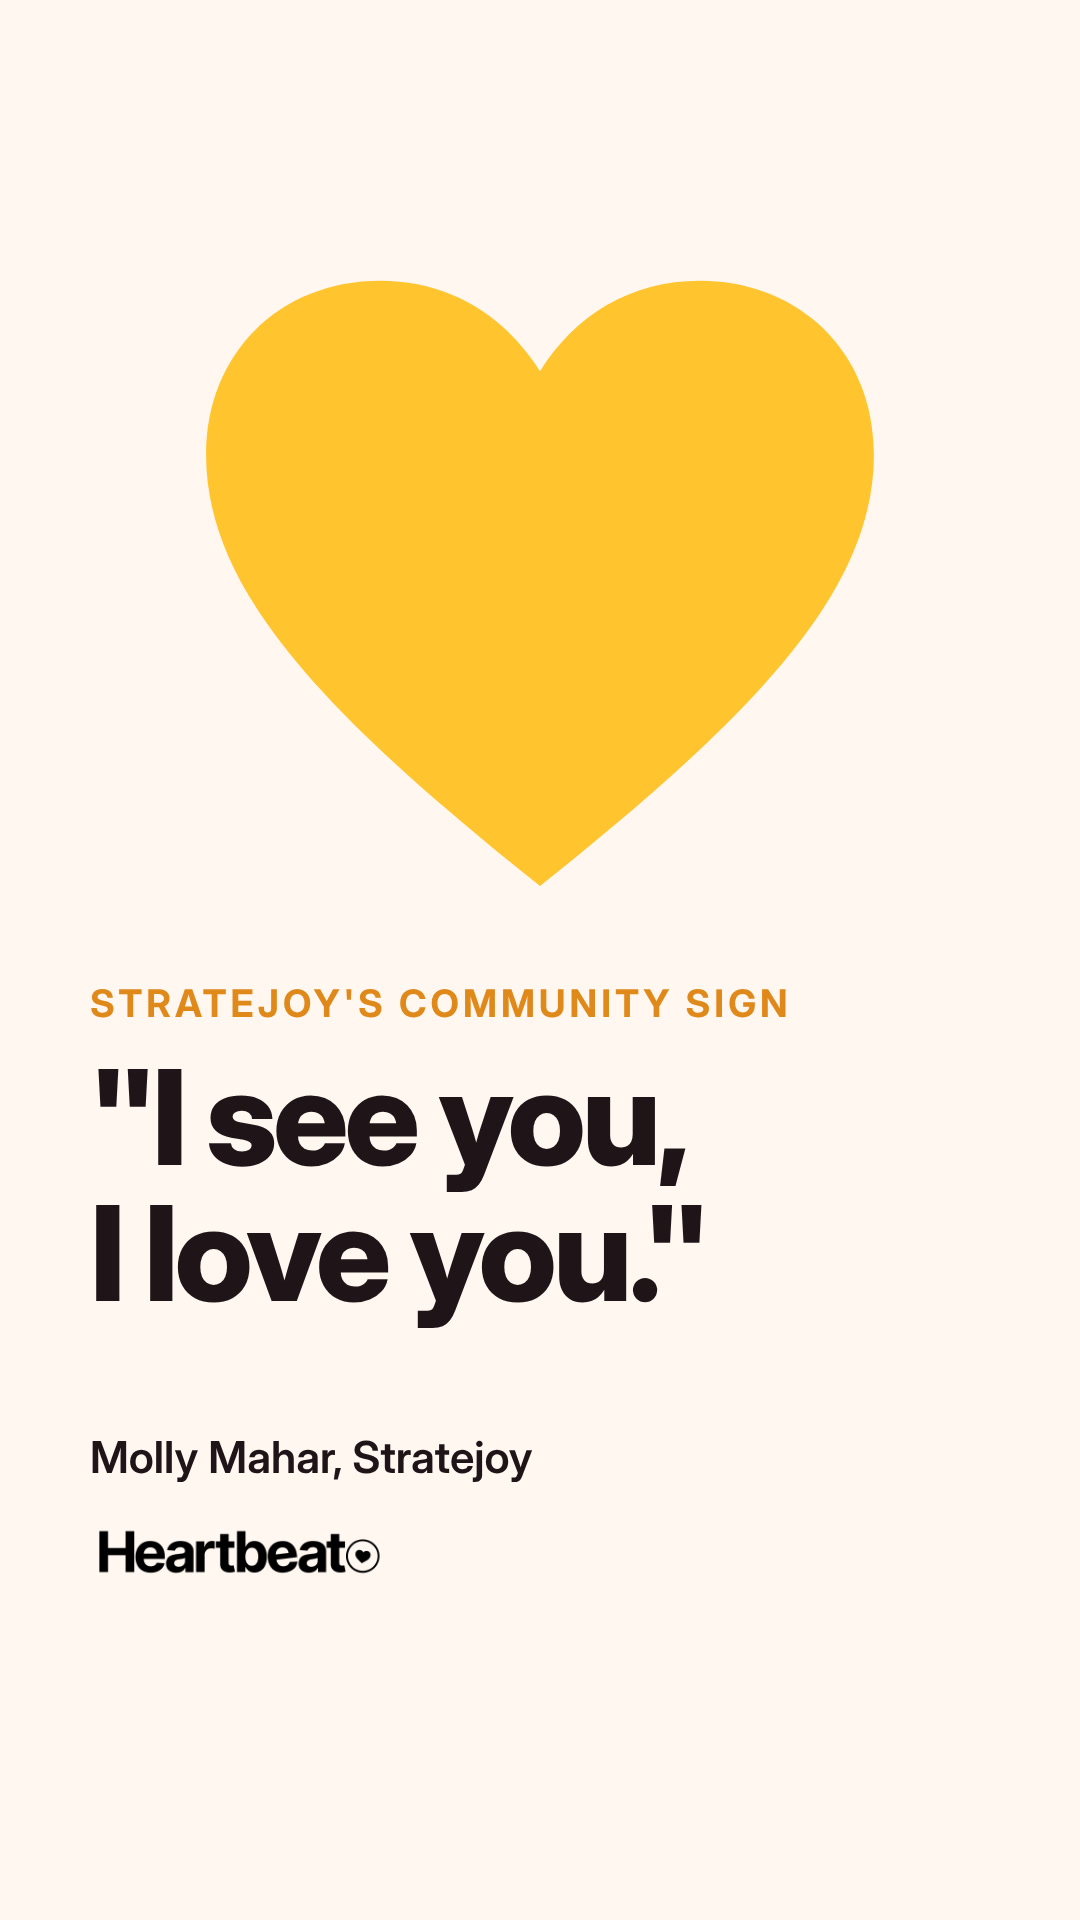
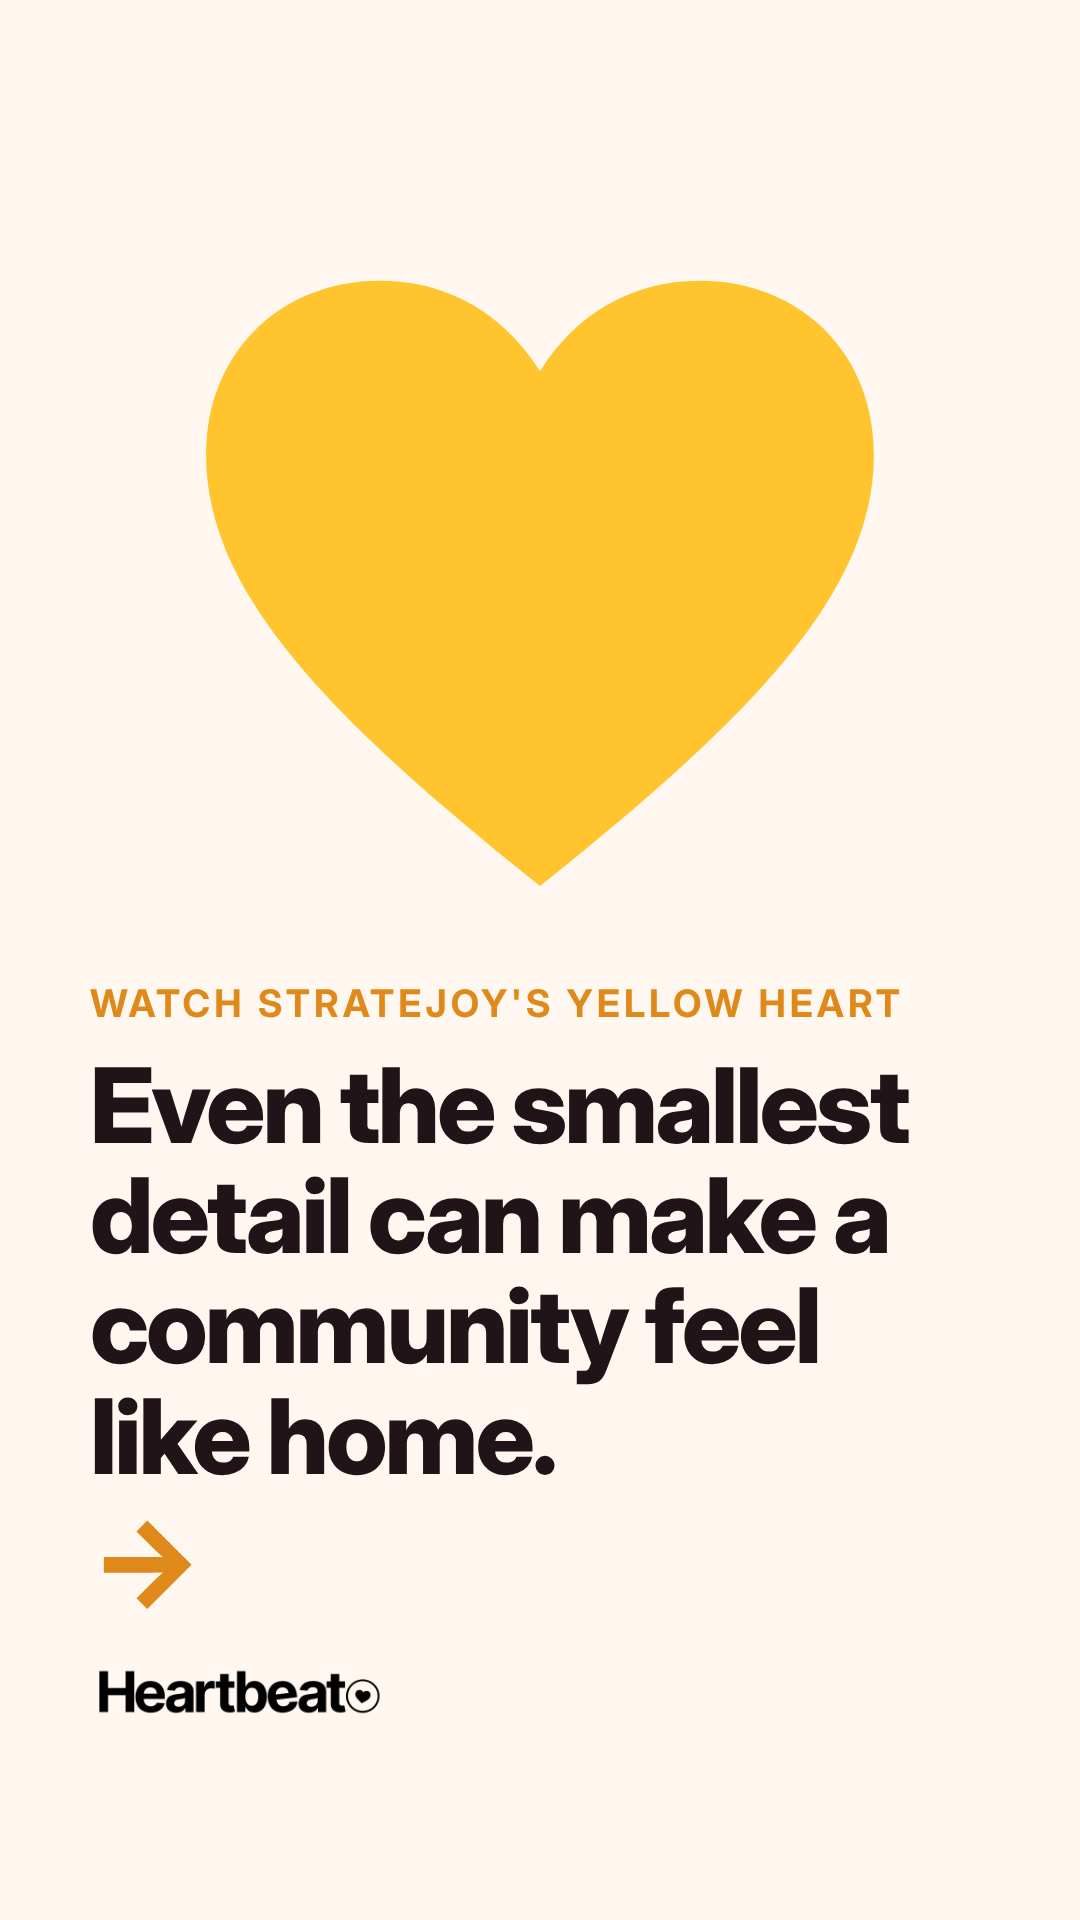
Stratejoy cover: new text per Clay

Changed region(s): [[0.0611, 0.5, 0.8556, 0.8438], [0.0917, 0.875, 0.3667, 0.9062]]

diff --git a/posts/2026-11-18-stratejoy-yellow-heart/src/reel-cover.html b/posts/2026-11-18-stratejoy-yellow-heart/src/reel-cover.html
@@ -3,13 +3,13 @@
 body{margin:0;width:1080px;height:1920px;background:#FFF7F0;color:#1F1418;font-family:Inter,sans-serif;position:relative;overflow:hidden}
 .heart{position:absolute;left:190px;top:260px;width:700px;height:640px}
 .k{position:absolute;left:90px;top:980px;font-weight:700;font-size:38px;letter-spacing:4px;text-transform:uppercase;color:#E0891A}
-.t{position:absolute;left:90px;right:90px;top:1050px;font-weight:800;font-size:132px;line-height:1.03;letter-spacing:-4px}
-.s{position:absolute;left:90px;top:1430px;font-size:44px;font-weight:600}
-.w{position:absolute;left:90px;bottom:340px;height:56px}
+.t{position:absolute;left:90px;right:90px;top:1050px;font-weight:800;font-size:104px;line-height:1.06;letter-spacing:-3px}
+.s{position:absolute;left:90px;top:1500px;font-size:120px;font-weight:800;color:#E0891A;line-height:1}
+.w{position:absolute;left:90px;bottom:200px;height:56px}
 </style></head><body>
 <svg class="heart" viewBox="0 0 100 92"><path d="M50 90C20 66 2 48 2 28 2 13 13 3 27 3c10 0 18 5 23 13C55 8 63 3 73 3c14 0 25 10 25 25 0 20-18 38-48 62z" fill="#FFC42E"/></svg>
-<div class="k">Stratejoy's community sign</div>
-<div class="t">"I see you,<br>I love you."</div>
-<div class="s">Molly Mahar, Stratejoy</div>
+<div class="k">Watch Stratejoy's yellow heart</div>
+<div class="t">Even the smallest detail can make a community feel like home.</div>
+<div class="s">&rarr;</div>
 <img class="w" src="{{ROOT}}/brand/heartbeat-wordmark-black.png">
 </body></html>
